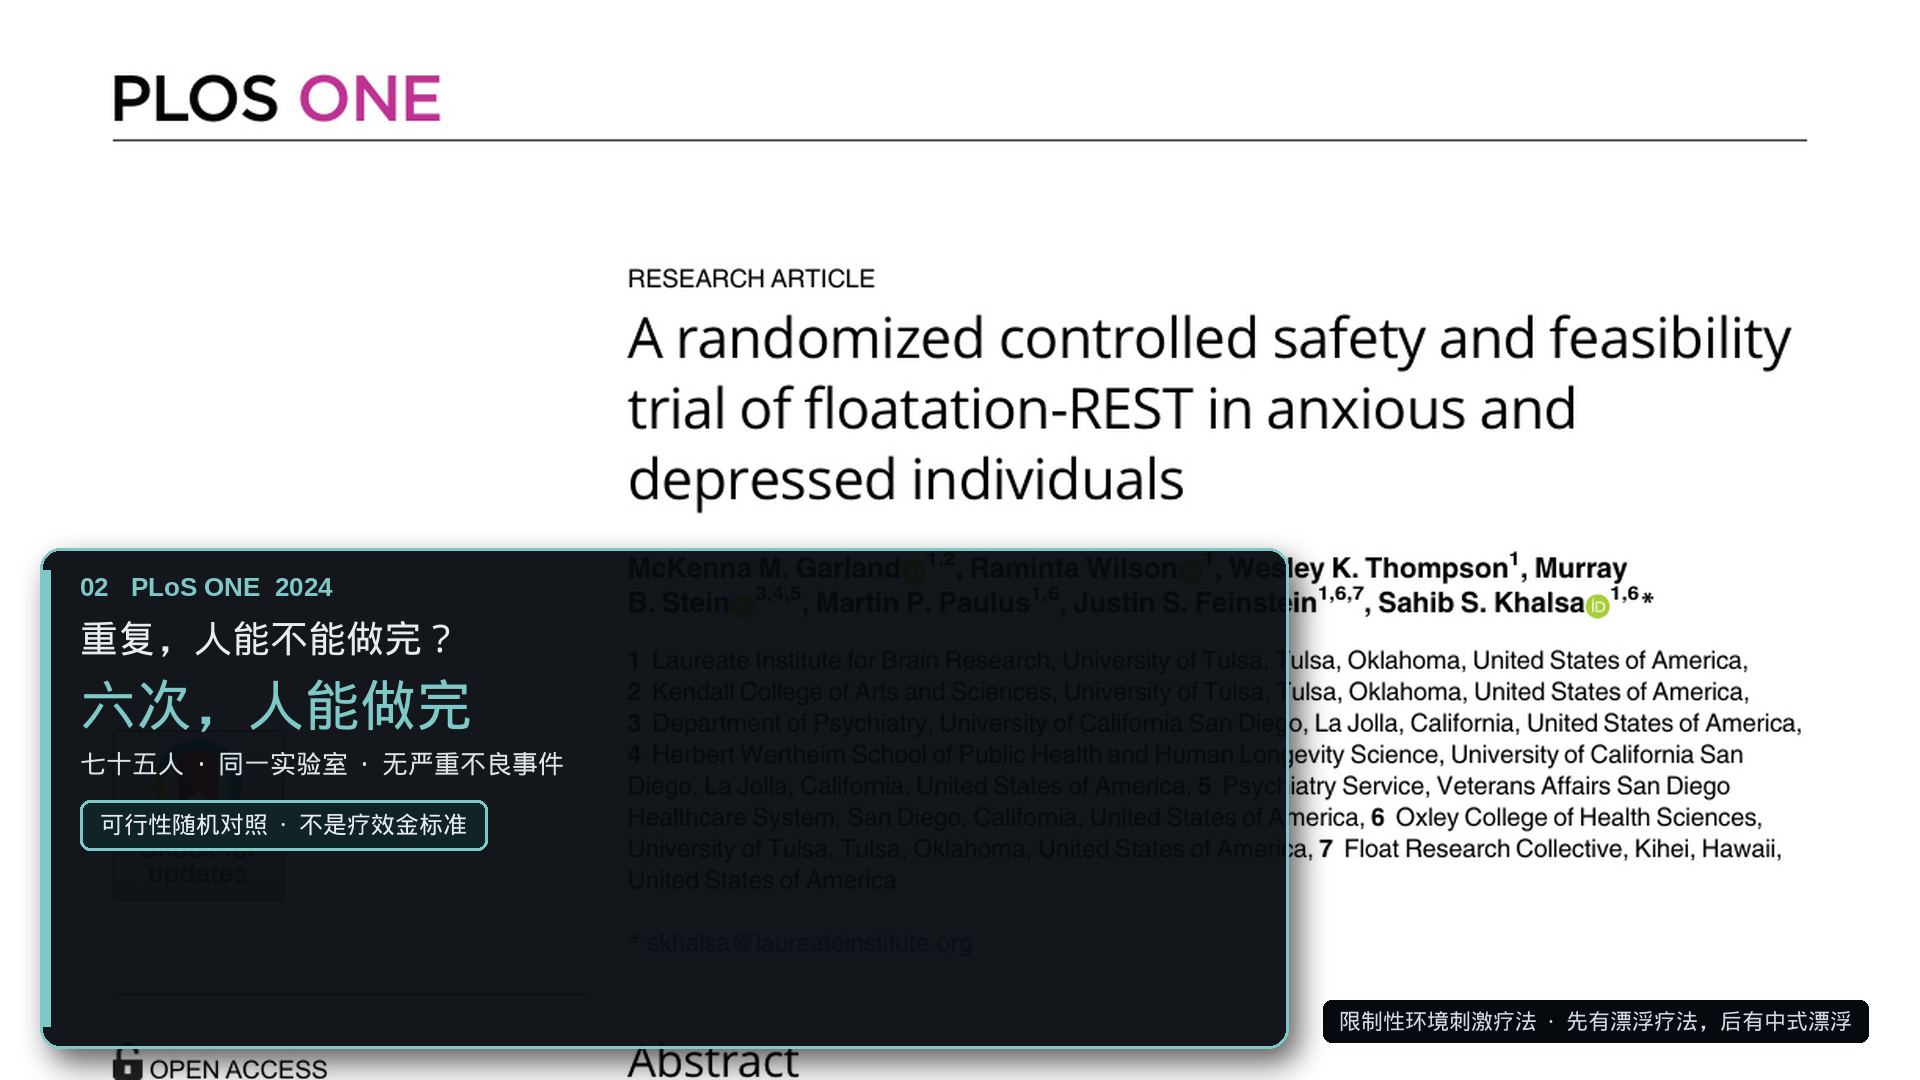
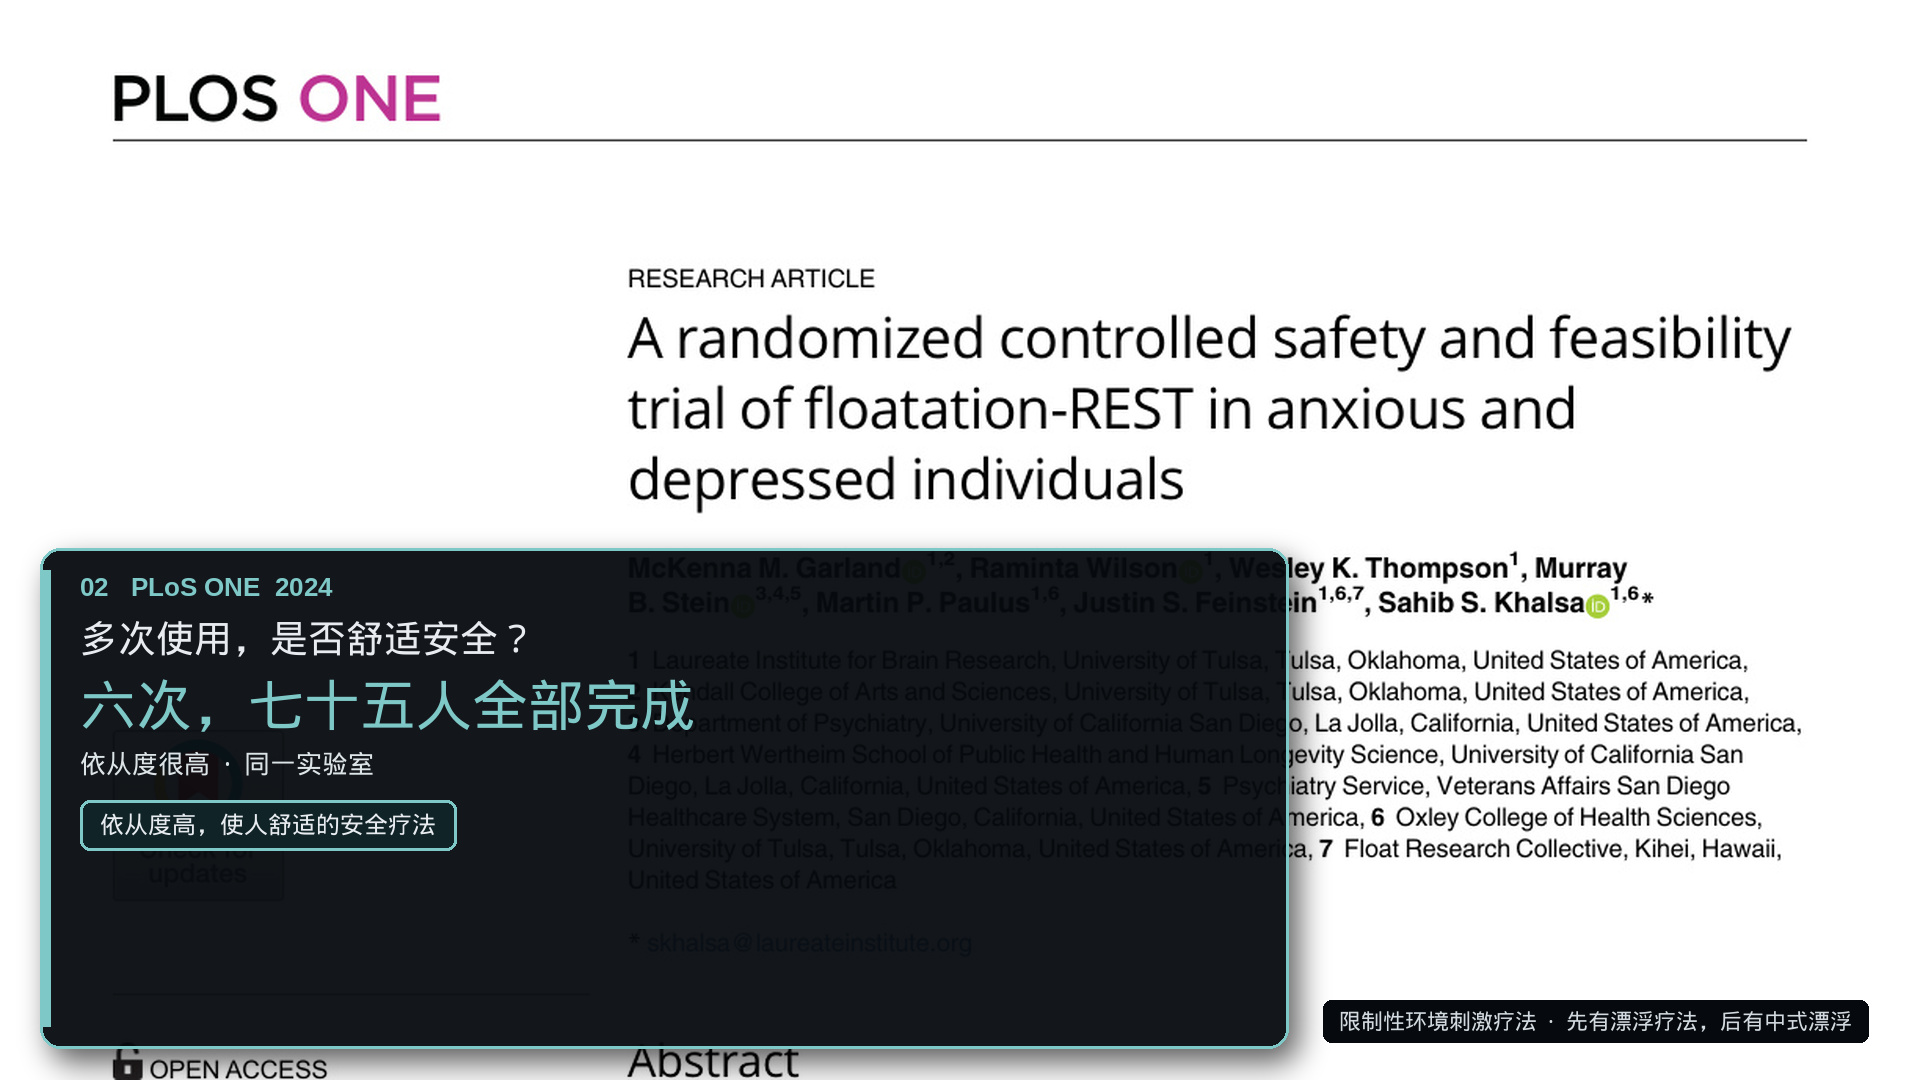
分镜004重复卡改成正面口径：舒适安全、全部完成
画面不再写「人能不能做完」「不是疗效金标准」。
问多次使用是否舒适安全，大字写六次七十五人全部完成，绿框写依从度高、使人舒适的安全疗法。

Changed region(s): [[0.0312, 0.55, 0.375, 0.7944]]

diff --git a/scripts/compose-shot004-stills.py b/scripts/compose-shot004-stills.py
@@ -158,7 +158,7 @@ def four_up(photos, filename):
 
     labels = [
         "2018  一次 · 开放标签",
-        "2024  重复 · 可行性对照",
+        "2024  重复 · 依从度高",
         "2014  功效 · 随机对照试点",
         "2023  随访 · 柳叶子刊对照",
     ]
@@ -211,10 +211,10 @@ def main():
     paper_card(
         p2024,
         "02   PLoS ONE  2024",
-        "重复，人能不能做完？",
-        "六次，人能做完",
-        "七十五人  ·  同一实验室  ·  无严重不良事件",
-        "可行性随机对照  ·  不是疗效金标准",
+        "多次使用，是否舒适安全？",
+        "六次，七十五人全部完成",
+        "依从度很高  ·  同一实验室",
+        "依从度高，使人舒适的安全疗法",
         "004b-repeat.jpg",
     )
     paper_card(

diff --git a/exports/宣传片_第一章_国际研究基础_分镜003-005.md b/exports/宣传片_第一章_国际研究基础_分镜003-005.md
@@ -87,12 +87,12 @@
 **时间：** 0:42–1:07（25 秒）  
 **视频内容：** 四张卡，一文一图。每张卡上半是该论文首页标题区（期刊名 + 文章标题），下半是问题 + 结果。不要扫 PDF 正文、图表或数据图。不要把 2024 可行性试验写成功效。  
 **锚点：** 无  
-**镜头描述：** 深色背景。四张全幅卡依次切，最后可定格四宫格。2018 徽章必须是开放标签。2024 大字是「人能做完」，无严重不良事件放小字。2014 是功效卡。2023 突出柳叶子刊与六月信号，中文不要写治疗厌食（原文标题里的 anorexia nervosa 是文献题名，不要再配中文病种主标题）。节奏：一次 6 秒 → 重复 6 秒 → 功效 6 秒 → 随访 7 秒。
+**镜头描述：** 深色背景。四张全幅卡依次切，最后可定格四宫格。2018 徽章必须是开放标签。2024 大字是「六次，七十五人全部完成」，绿框写舒适安全，不要写「人能不能做完」或「不是金标准」。2014 是功效卡。2023 突出柳叶子刊与六月信号，中文不要写治疗厌食（原文标题里的 anorexia nervosa 是文献题名，不要再配中文病种主标题）。节奏：一次 6 秒 → 重复 6 秒 → 功效 6 秒 → 随访 7 秒。
 
 **营销脊柱：**
 
 1. 一次，有没有变化？  
-2. 重复，人能不能做完？  
+2. 多次使用，是否舒适安全？  
 3. 用临床对照的标准看，有没有功效？  
 4. 更硬的对照，会不会很快没了？
 
@@ -111,11 +111,11 @@
 
 2. **重复 · PLoS ONE 2024**  
    截屏：Garland 等，*A randomized controlled safety and feasibility trial of floatation-REST…*  
-   问：重复，人能不能做完？  
-   结果：六次，人能做完  
-   细节：七十五人 · 无严重不良事件（小字，不是这张卡的卖点）  
-   徽章：可行性随机对照 · 不是疗效金标准  
-   说明：这篇主终点是依从/安全，**没有功效数字可上大字**。
+   问：多次使用，是否舒适安全？  
+   结果：六次，七十五人全部完成  
+   细节：依从度很高  
+   徽章：依从度高，使人舒适的安全疗法  
+   说明：画面只讲完成率、依从度和舒适安全；不要写「人能不能做完」「不是疗效金标准」。这篇仍不要写成焦虑抑郁疗效。
 
 3. **功效 · BMC 2014**  
    截屏：Kjellgren & Westman，*Beneficial effects of treatment with sensory isolation in flotation-tank as a preventive health-care intervention – a randomized controlled pilot trial*  
@@ -135,12 +135,12 @@
 
 **旁白：**（约 25 秒）
 
-> 一次约一小时之后，焦虑状态可以明显下降。这是美国 Laureate 脑研究所写进 PLoS ONE 的开放标签观察。同一实验室证明：六次，人能做完。北欧随机对照试点里，压力与焦虑指标下降。柳叶子刊随机对照进一步看见状态焦虑与身体意象，六个月后仍有信号。一次看见变化，重复做得完，对照有信号。
+> 一次约一小时之后，焦虑状态可以明显下降。这是美国 Laureate 脑研究所写进 PLoS ONE 的开放标签观察。同一实验室证明：六次，七十五人全部完成，依从度很高。北欧随机对照试点里，压力与焦虑指标下降。柳叶子刊随机对照进一步看见状态焦虑与身体意象，六个月后仍有信号。一次看见变化，重复做得完，对照有信号。
 
 **制作注意：**
 
 - 2018 必须出现「开放标签」，禁止角标 RCT。
-- 2024 只主张「能做完、较安全」，不主张治愈焦虑抑郁。
+- 2024 画面主张依从度高、舒适安全、全部完成；不要写「人能不能做完」「不是疗效金标准」；不主张治愈焦虑抑郁。
 - 2014 只主张压力与焦虑指标下降，禁止治疗病种。
 - 2023 中文关键词停在状态焦虑与身体意象。原文标题可出镜，不要再配中文病种主标题。
 - 画面用论文首页标题区，不扫正文段落和统计图。

diff --git a/PROJECT.md b/PROJECT.md
@@ -618,6 +618,7 @@ npm run serve          # 或 PORT=43123 bash scripts/keep-alive-server.sh
 
 | 日期 | 变更 |
 |------|------|
+| 2026-09-06 | **分镜 004 重复卡改正面口径**：问「多次使用，是否舒适安全？」；大字「六次，七十五人全部完成」；绿框「依从度高，使人舒适的安全疗法」。不再上屏「人能不能做完」「不是疗效金标准」。 |
 | 2026-09-06 | **分镜 004 左下文字加实底**：四张论文卡左下角改为深色底板；功效卡问句改为「用临床对照的标准看，有没有功效？」。四宫格标题改为「一次有结果，多次也显著，完成疗程无不良，长期效果仍持续。」；四张卡底部改为「先有漂浮疗法，后有中式漂浮」。 |
 | 2026-09-06 | **分镜 003 谱系三张指定图**：① Lilly 早期箱式舱；② Suedfeld 1980 Wiley 书封（contain，不裁 REST）；③ 研究视频首帧＝漂浮中脑电/生理监测，不写成 2021 fMRI。解释文字写入分镜稿与 `KP-CRAFT-026` v1.1。 |
 | 2026-08-22 | 初始搭建：导入/总库/编排/PPT/冲突检测 |

diff --git a/exports/video-assets/shot004/README.md b/exports/video-assets/shot004/README.md
@@ -3,7 +3,7 @@
 一文一图。每张卡用该论文首页标题区（期刊名 + 文章标题），不扫正文和统计图。
 
 1. `004a-once.jpg` — Feinstein 2018 PLoS ONE · 一次 · 状态焦虑显著下降 · 开放标签
-2. `004b-repeat.jpg` — Garland 2024 PLoS ONE · 重复 · 六次，人能做完 · 可行性（无功效主终点）
+2. `004b-repeat.jpg` — Garland 2024 PLoS ONE · 多次使用是否舒适安全 · 七十五人全部完成 · 依从度高，使人舒适的安全疗法
 3. `004c-efficacy.jpg` — Kjellgren 2014 BMC · 用临床对照的标准看，有没有功效？ · 压力与焦虑指标下降
 4. `004d-followup.jpg` — Choquette 2023 柳叶子刊 · 随访 · 六个月后仍有信号
 5. `004e-four-up.jpg` — 四宫格：一次有结果，多次也显著，完成疗程无不良，长期效果仍持续。  
